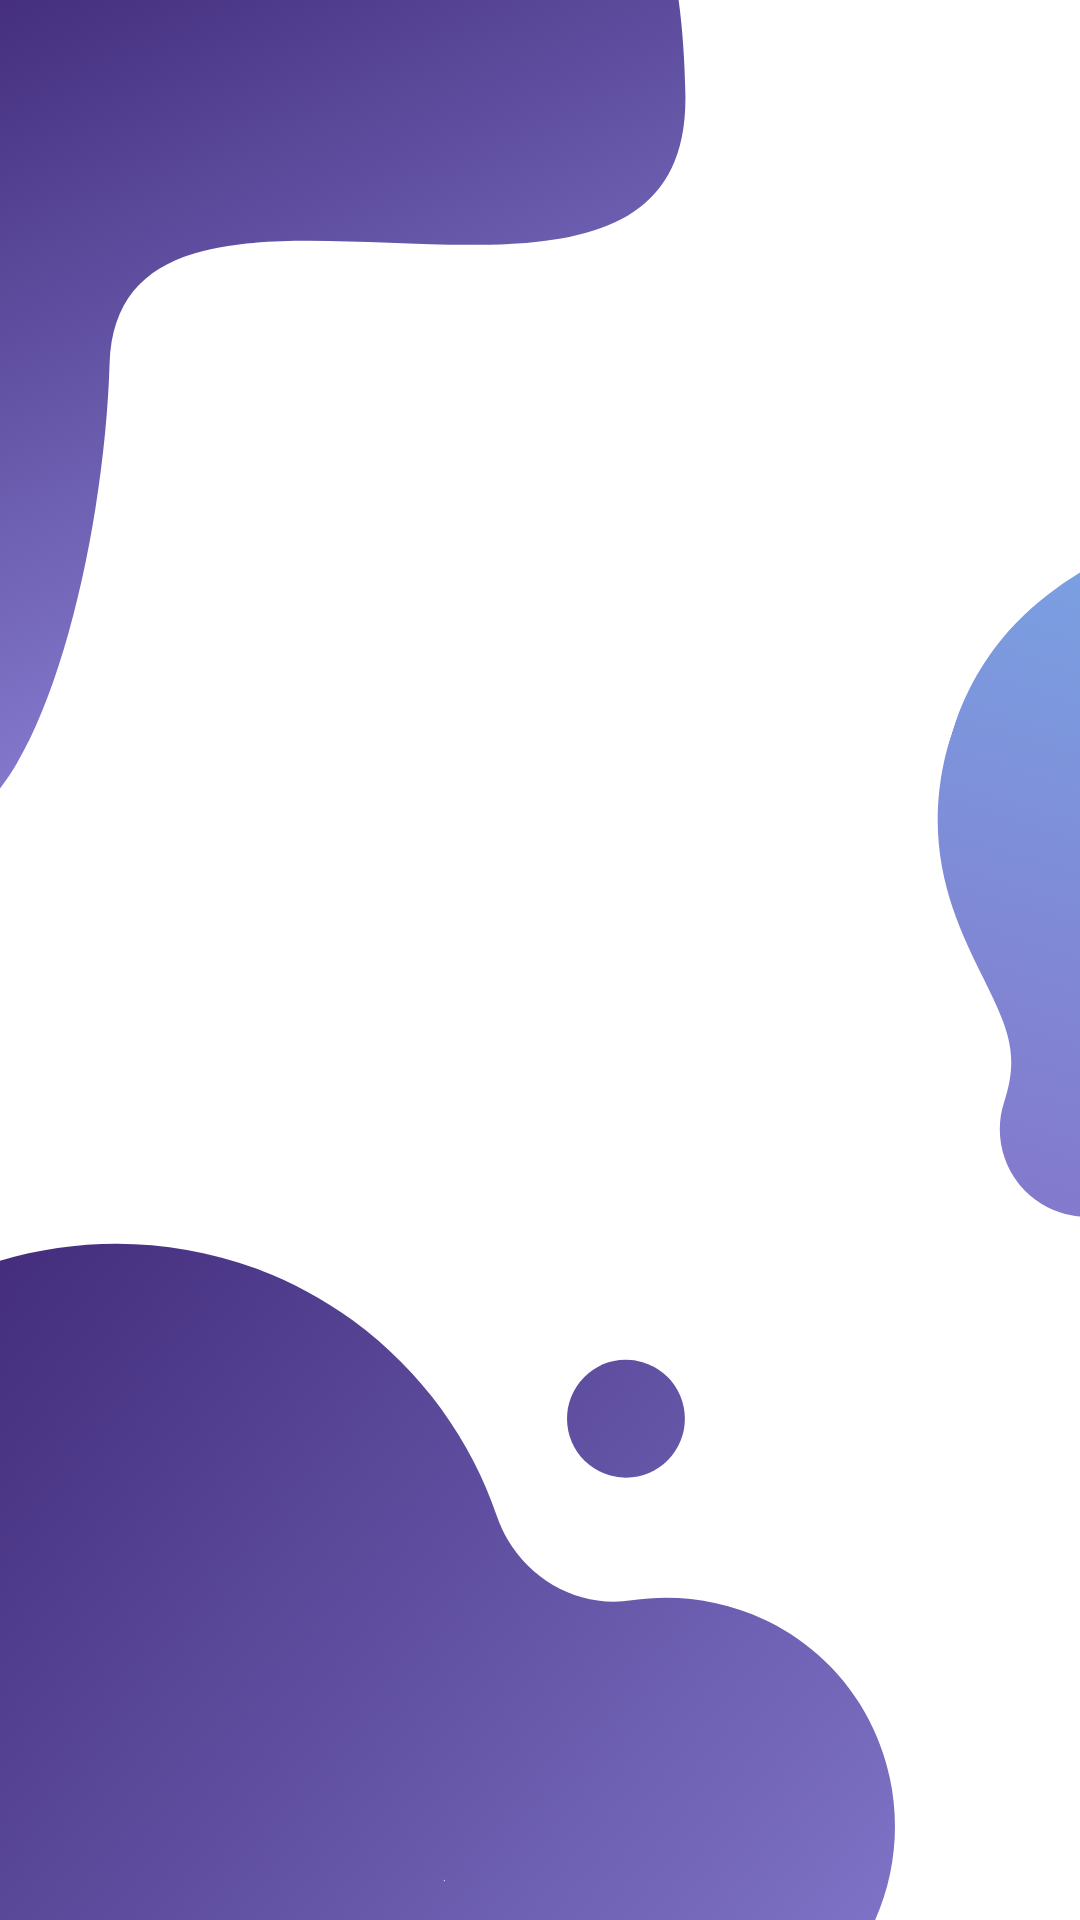
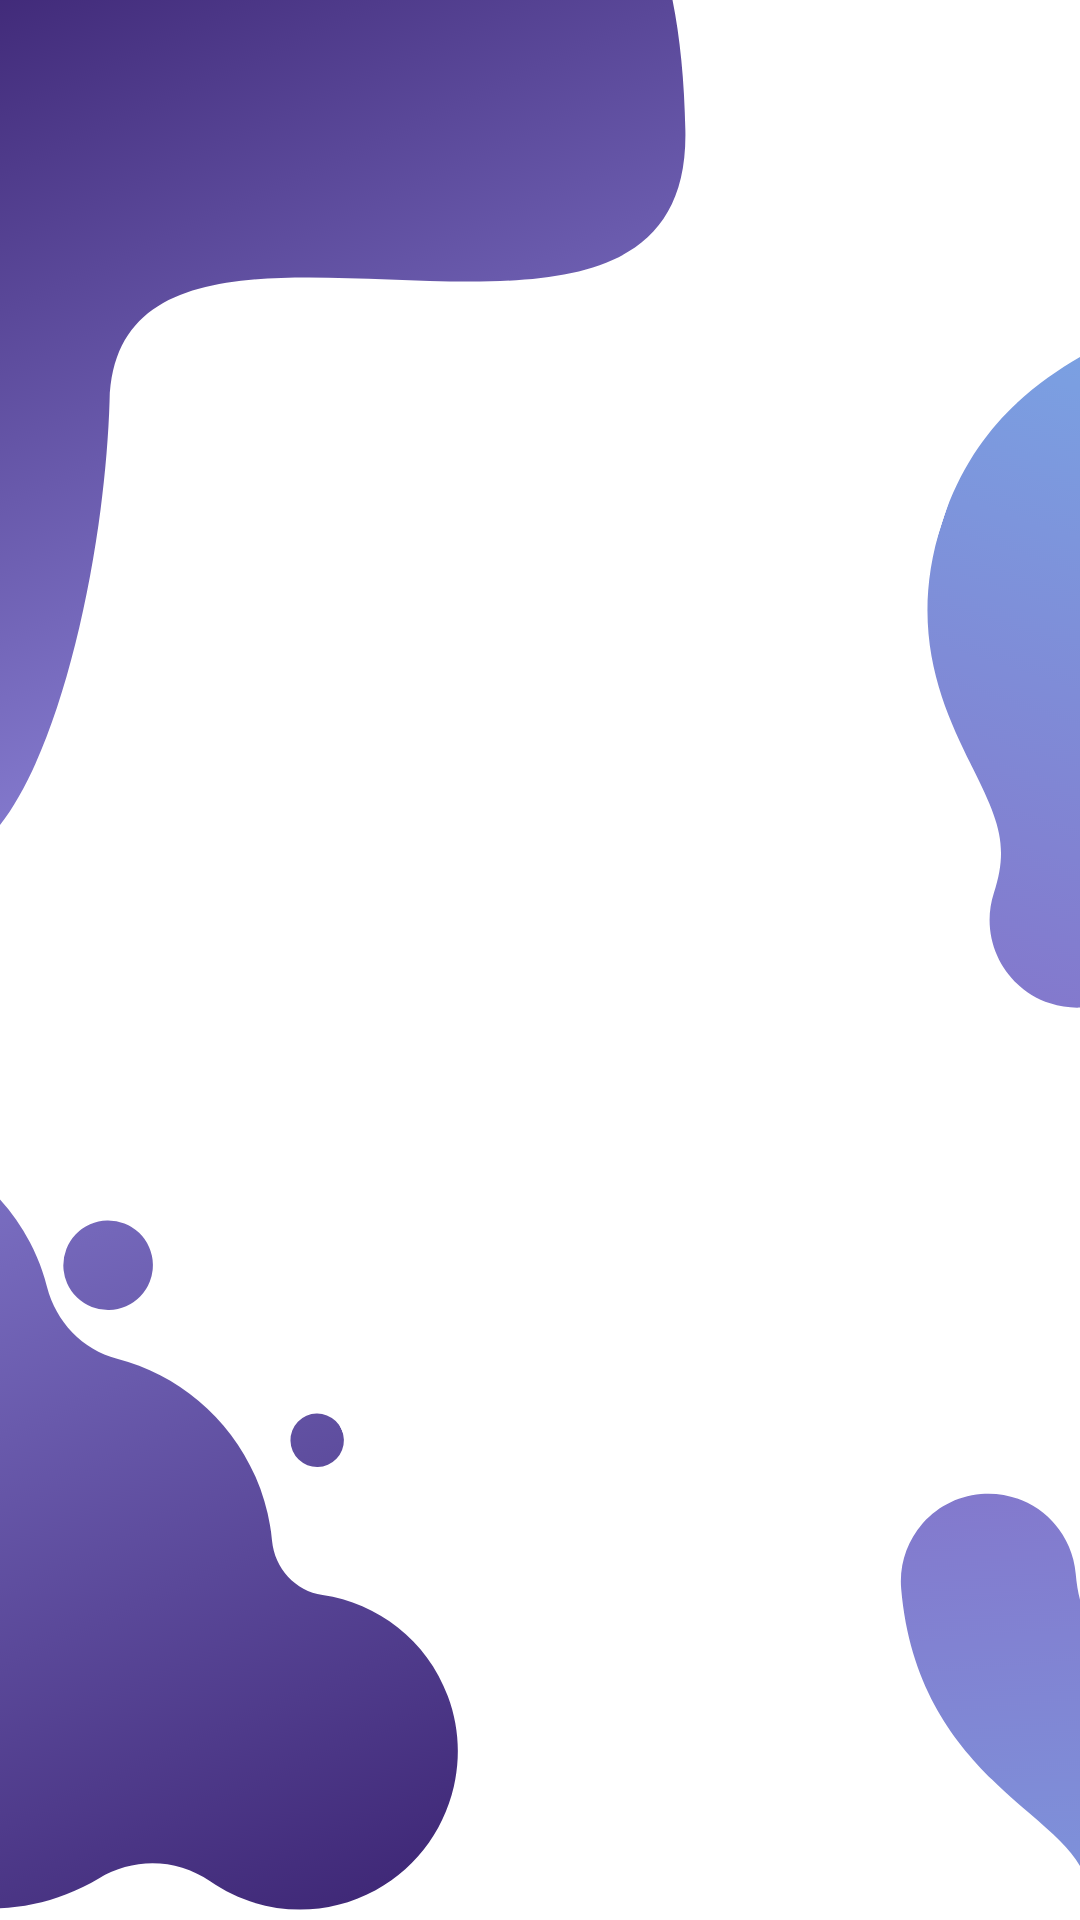
Fixed login screen bg

diff --git a/src/app/views/login/login.page.scss b/src/app/views/login/login.page.scss
@@ -8,7 +8,7 @@ ion-content {
   height: 100%;
   width: 100%;
   background: url("../../../assets/habitat-login-bg.png");
-  background-size: 100% 100%;
+  background-size: 100%;
   background-repeat: no-repeat;
 }
 
